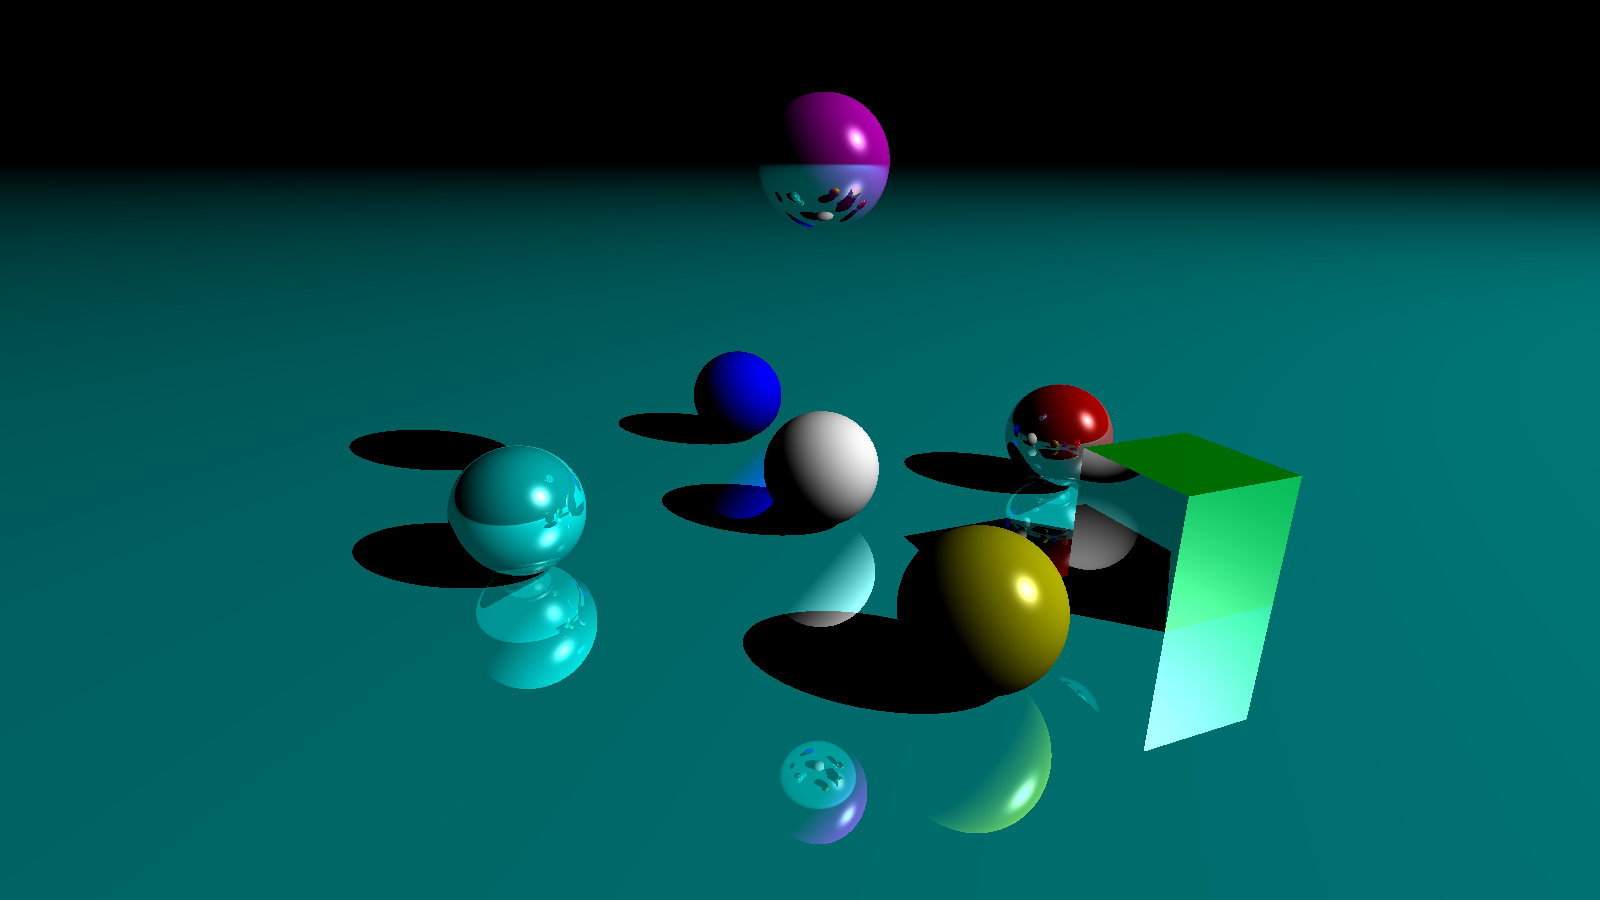
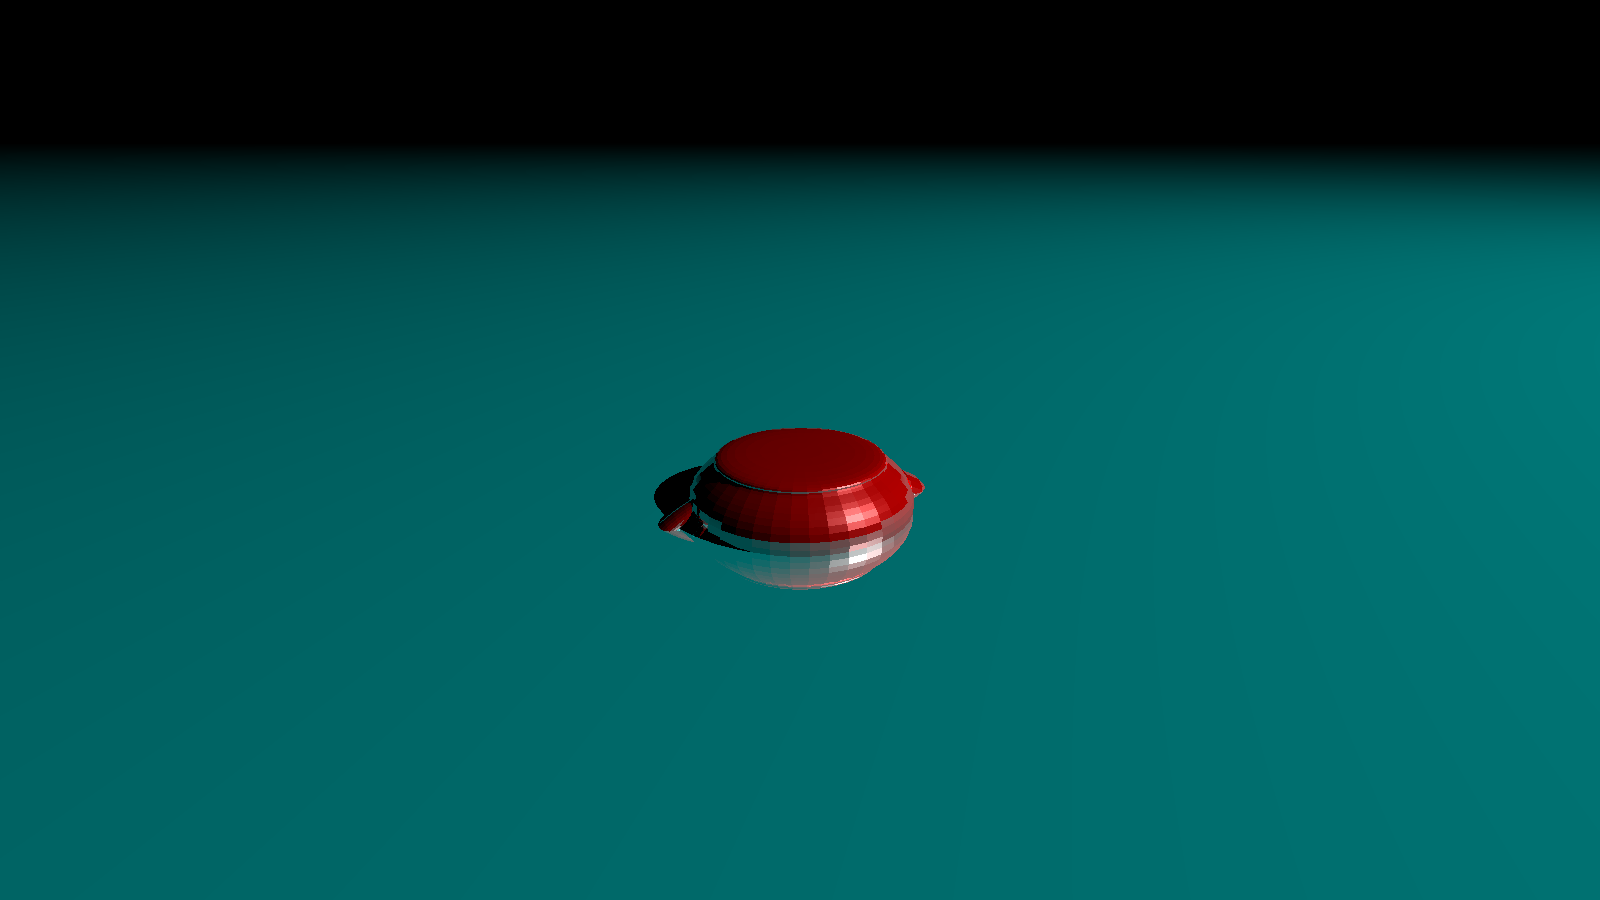
Mesh support working, but need to account for position

diff --git a/src/main.rs b/src/main.rs
@@ -2,130 +2,151 @@ mod structs;
 
 use std::{path::PathBuf, thread, sync::{Arc, Mutex}};
 
+use argparse::{ArgumentParser, StoreTrue, Store};
 use image::Rgba;
-use structs::{scene::Scene, camera::Camera, vec3::Vec3, sphere::Sphere, light::Light, plane::Plane, prism::Prism, appearance::Appearance, finish::Finish, color::color_from_hex, animate::Animate};
+use raster::{Color, Image};
+use structs::{scene::Scene, camera::Camera, vec3::Vec3, light::Light, plane::Plane, appearance::Appearance, finish::Finish, color::color_from_hex, animate::Animate};
 
 use ndarray::Array3;
-use video_rs::{Encoder, EncoderSettings, Locator, Time, PixelFormat, Options};
+use video_rs::{Encoder, EncoderSettings, Locator, Time};
 
 use crate::structs::mesh::ColoredMesh;
 
 fn main() {
-    video_rs::init().unwrap();
+    let mut video: bool = false;
+    let mut duration: f64 = 3.0;
+    let mut frame_rate: usize = 60;
+    let mut filename = String::new();
 
-    let mut camera: Camera = Camera::new(
+    {
+        let mut ap = ArgumentParser::new();
+
+        ap.set_description("Eyebeam renderer.");
+
+        ap.refer(&mut video)
+          .add_option(&["-v", "--video"], StoreTrue, "Renders a video instead of an image.");
+
+        ap.refer(&mut duration)
+          .add_option(&["-d", "--duration"], Store, "Duration of the video.");
+
+        ap.refer(&mut frame_rate)
+          .add_option(&["-f", "--frame-rate"], Store, "Frame rate of the video.");
+
+        ap.refer(&mut filename)
+          .add_option(&["-o", "--output"], Store, "Filename to store the rendered image/video under.");
+
+        ap.parse_args_or_exit();
+    }
+
+    if filename.is_empty() {
+        filename = (if video {"video.mp4"} else {"img.png"}).into();
+    }
+
+    let camera: Camera = Camera::new(
         Vec3::new(-5, -5, -12),
         Vec3::O,
         4.0, 9.0 / 4.0
     );
-
-    let frame_delta: f64 = 1.0 / 60.0;
-    let duration: f64 = 3.0;
-
-    camera.add_camera_move(Vec3::new(5, -5, -12), 3.0, Some(Vec3::O));
     
     let background = Rgba([0, 0, 0, 255]);
 
     let mut scene: Scene = Scene::new(camera, background);
 
-    let cyan_appearance     = Appearance::new(color_from_hex("#00FFFF").unwrap(), Finish::new(0.0, 0.7, 1.0, 0.7));
+    let cyan_appearance = Appearance::new(color_from_hex("#00FFFF").unwrap(), Finish::new(0.0, 0.7, 1.0, 1.0));
+    let red_appearance = Appearance::new(color_from_hex("#FF0000").unwrap(), Finish::new(0.0, 0.7, 0.7, 0.7));
 
-    // spheres
-    scene.shapes.push(Box::new(ColoredMesh::new("res/teapot.obj", Vec3::new(-5, 0, 0), cyan_appearance.clone())));   // cyan
+    // shapes
+    scene.shapes.push(Box::new(ColoredMesh::new("res/teapot.obj", Vec3::new(-5, -10, 0), red_appearance)));
 
     // plane
     scene.shapes.push(Box::new(Plane::new(Vec3::O + Vec3::J, Vec3::J.invert(), cyan_appearance)));
 
+    // light
     scene.lights.push(Light::new(Vec3::new(5, -5, -5) * 10, color_from_hex("#FFFFFF").unwrap()));
-    // scene.lights.push(Light::new(Vec3::new(0, 0, -10), color_from_hex("#FF0000").unwrap()));
 
-    let destination: Locator = PathBuf::from("out/video.mp4").into();
-    let settings = EncoderSettings::for_h264_yuv420p(1600, 900, false);
+    
+    if video {
+        // video encoder setup
+        video_rs::init().unwrap();
+        
+        let mut pixel_data = Arc::new(Mutex::new(Array3::<u8>::zeros((900, 1600, 3))));
+        let frame_delta: f64 = 1.0 / frame_rate as f64;
 
-    let mut encoder = Encoder::new(&destination, settings).expect("Unable to create encoder");
+        scene.camera.add_camera_move(Vec3::new(5, -5, -12), 3.0, Some(Vec3::O));
 
-    let video_frame_time = Time::from_nth_of_a_second(60);
-    let mut position = Time::zero();
+        let destination: Locator = PathBuf::from("out/video.mp4").into();
+        let settings = EncoderSettings::for_h264_yuv420p(1600, 900, false);
+    
+        let mut video_encoder = Encoder::new(&destination, settings).expect("Unable to create encoder");
+    
+        let video_frame_time = Time::from_nth_of_a_second(frame_rate);
+        let mut video_position = Time::zero();
 
-    let mut pixel_data = Arc::new(Mutex::new(Array3::<u8>::zeros((900, 1600, 3))));
-
-    for frame_num in 0..(duration / frame_delta).ceil() as i32 {
-        println!("Drawing frame {}...", frame_num);
+        for frame_num in 0..(duration / frame_delta).ceil() as i32 {
+            println!("Drawing frame {}...", frame_num);
+    
+            thread::scope(|scope| {
+                // shadow these so that they don't need to get moved into the scoped threads
+                let scene = &scene;
+                let pixel_data = &pixel_data;
+    
+                for j in 0..16 {
+                    scope.spawn(move || {
+                        for x in j*100..(j+1)*100 {
+                            for y in 0..900 {
+                                let color = scene.trace((x as f64 / 1600.0) - 0.5, (y as f64 / 900.0) - 0.5);
+    
+                                {
+                                    let mut data = pixel_data.lock().unwrap();
+                                    data[[y, x, 0]] = color.0[0];
+                                    data[[y, x, 1]] = color.0[1];
+                                    data[[y, x, 2]] = color.0[2];
+                                }
+                            }
+                        }
+                    });
+                }
+            });
+    
+            println!("Encoding frame {}...", frame_num);
+            // let frame = Array3::from_shape_fn((900, 1600, 3), |(y, x, c)| pixels[900 * x + y][c]);
+            video_encoder.encode(&pixel_data.lock().unwrap(), &video_position).expect(&format!("Unable to encode {}th frame", frame_num));
+        
+            // update scene and video encoder
+            scene.update(frame_delta);
+            video_position = video_position.aligned_with(&video_frame_time).add();
+        
+            // pixels.clear();
+            pixel_data = Arc::new(Mutex::new(Array3::<u8>::zeros((900, 1600, 3))));
+        }
+    
+        video_encoder.finish().expect("Unable to finish encoding.");
+    } else {
+        let image: Arc<Mutex<Image>> = Arc::new(Mutex::new(Image::blank(1600, 900)));
 
         thread::scope(|scope| {
-            scope.spawn(|| {
-                for x in 0..800 {
-                    for y in 0..450 {
-                        let color = scene.trace((x as f64 / 1600.0) - 0.5, (y as f64 / 900.0) - 0.5);
-    
-                        {
-                            let mut data = pixel_data.lock().unwrap();
-                            data[[y, x, 0]] = color.0[0];
-                            data[[y, x, 1]] = color.0[1];
-                            data[[y, x, 2]] = color.0[2];
-                        }
-                    }
-                }
-            });
-    
-            scope.spawn(|| {
-                for x in 0..800 {
-                    for y in 450..900 {
-                        let color = scene.trace((x as f64 / 1600.0) - 0.5, (y as f64 / 900.0) - 0.5);
-    
-                        {
-                            let mut data = pixel_data.lock().unwrap();
-                            data[[y, x, 0]] = color.0[0];
-                            data[[y, x, 1]] = color.0[1];
-                            data[[y, x, 2]] = color.0[2];
-                        }
-                    }
-                }
-            });
-    
-            scope.spawn(|| {
-                for x in 800..1600 {
-                    for y in 0..450 {
-                        let color = scene.trace((x as f64 / 1600.0) - 0.5, (y as f64 / 900.0) - 0.5);
-    
-                        {
-                            let mut data = pixel_data.lock().unwrap();
-                            data[[y, x, 0]] = color.0[0];
-                            data[[y, x, 1]] = color.0[1];
-                            data[[y, x, 2]] = color.0[2];
-                        }
-                    }
-                }
-            });
+            // shadow these so that they don't need to get moved into the scoped threads
+            let scene = &scene;
+            let image = &image;
 
-            scope.spawn(|| {
-                for x in 800..1600 {
-                    for y in 450..900 {
-                        let color = scene.trace((x as f64 / 1600.0) - 0.5, (y as f64 / 900.0) - 0.5);
-        
-                        {
-                            let mut data = pixel_data.lock().unwrap();
-                            data[[y, x, 0]] = color.0[0];
-                            data[[y, x, 1]] = color.0[1];
-                            data[[y, x, 2]] = color.0[2];
+            for j in 0..16 {
+                scope.spawn(move || {
+                    for x in j*100..(j+1)*100 {
+                        for y in 0..900 {
+                            let color = scene.trace((x as f64 / 1600.0) - 0.5, (y as f64 / 900.0) - 0.5);
+                            
+                            {
+                                let mut img = image.lock().unwrap();
+                                img.set_pixel(x, y, Color { r: color.0[0], g: color.0[1], b: color.0[2], a: 0xFF }).expect("Unable to set pixel");
+                            }
                         }
                     }
-                }
-            });
+                });
+            }
         });
-        
-        println!("Encoding frame {}...", frame_num);
-        // let frame = Array3::from_shape_fn((900, 1600, 3), |(y, x, c)| pixels[900 * x + y][c]);
-        encoder.encode(&pixel_data.lock().unwrap(), &position).expect(&format!("Unable to encode {}th frame", frame_num));
 
-        // update scene and video encoder
-        scene.update(frame_delta);
-        position = position.aligned_with(&video_frame_time).add();
-
-        // pixels.clear();
-        pixel_data = Arc::new(Mutex::new(Array3::<u8>::zeros((900, 1600, 3))));
+        raster::save(&image.lock().unwrap(), &format!("out/{}", filename)).expect("Unable to save");
     }
 
-    encoder.finish().expect("Unable to finish encoding.");
     println!("Done.")
 }
